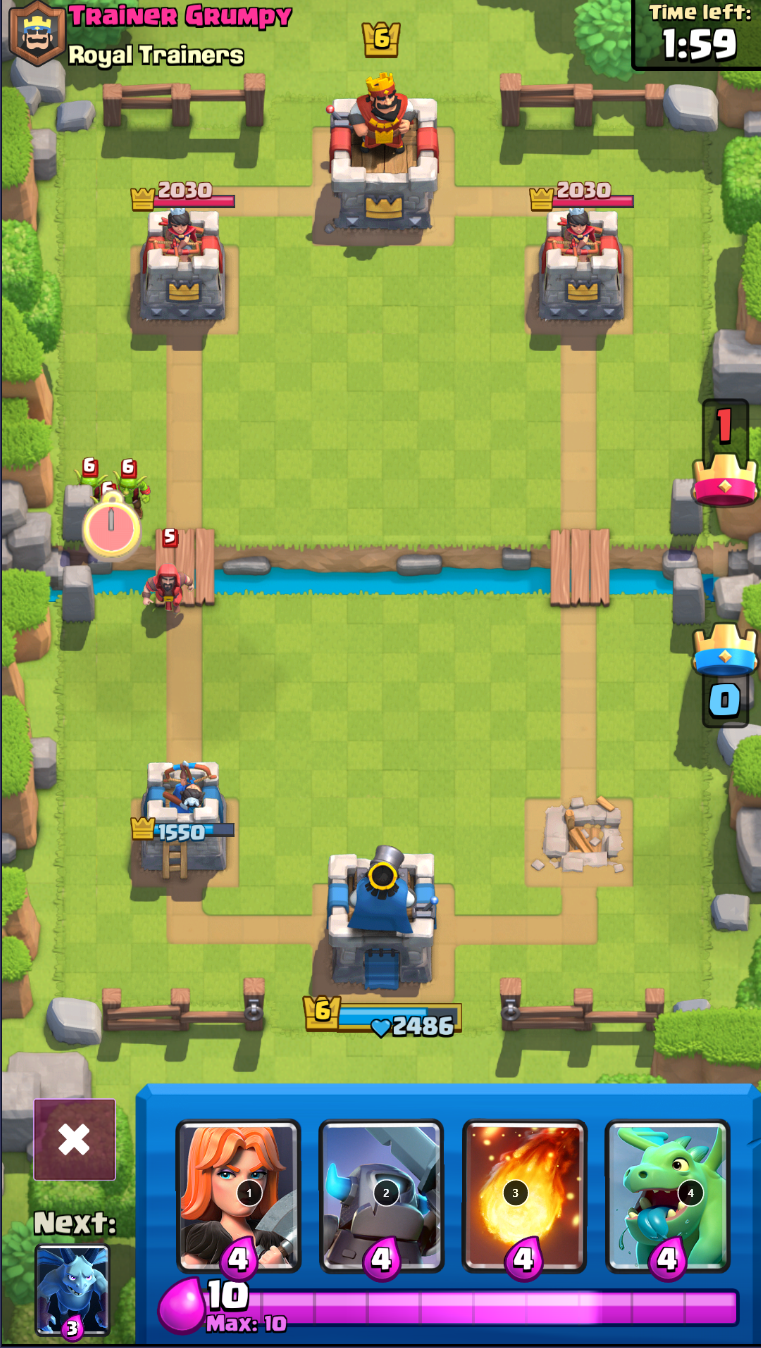
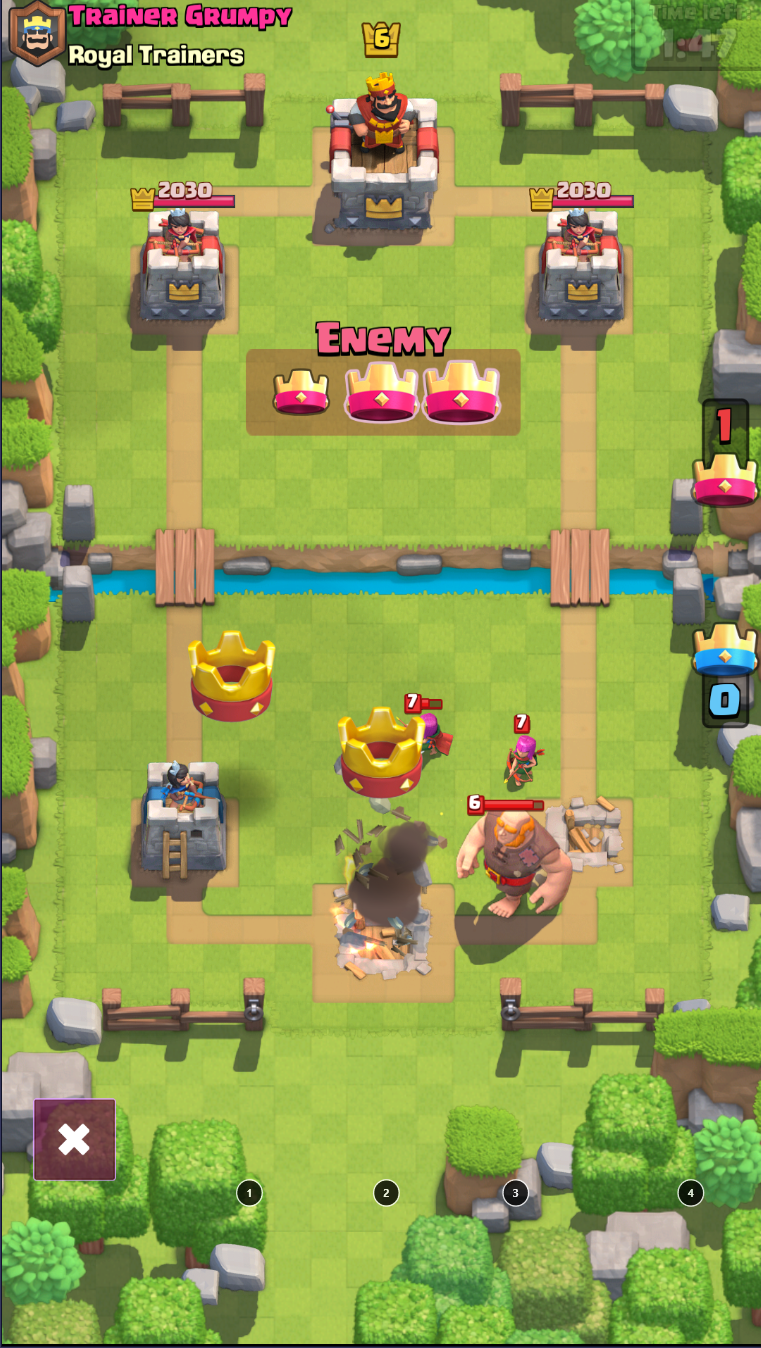
:microscope: Enemy Detection!
Compares a screenshot of the empty playfield from when first launched to the current playfield (cropped by an offset to avoid unwanted ui elements that cause false triggers) and detects the white on screen. White because it only shows up on enemy units, never anywhere else (like 90% of the time lol)

diff --git a/main.py b/main.py
@@ -10,6 +10,9 @@ from datetime import datetime
 import re
 import time
 import json
+import random
+import numpy as np
+import cv2
 
 # defualts
 elixerStoreValue = 0
@@ -24,7 +27,6 @@ elixerStoreScanRadius = 25
 cardScanRadius = 15
 
 # load our game coordinates from screenPoints.json (generated by configure.py)
-# TODO THESE ALL MIGHT NEED ADJUSTED TO LOCALLY FOR CROP
 with open("screenPoints.json") as json_file:
     # throw the json data into an object
     data = json.load(json_file)
@@ -73,6 +75,7 @@ with open("screenPoints.json") as json_file:
 screenSize = (screenBotRight[0] - screenOrigin[0], screenBotRight[1] - screenOrigin[1])
 
 # tell program we dont know any of our deck cards TODO this shit needs to be done better or removed
+# TODO yeah lmao i feel you past self, this is pretty dogshit
 usedFC = True
 usedSC = True
 usedTC = True
@@ -119,16 +122,12 @@ def filterImage(img):
     return img
 
 
-# TODO might need to put num filter back idk 4 is fucky  -c tessedit_char_whitelist=1234567890
-
-
 def tessParse(im):
     # parse our text and
     detectedText = tess.image_to_string(im, config="--psm 13")
     # 4 is commonly mistaken for Q in the clash royale font, correct for this
     if "q" in detectedText:
         detectedText = "4"
-    # clean detected text for any letters wrongly recognised TODO remove this if i enable the character whitelsit
     # print("detected text:", detectedText)
     detectedText = re.sub(
         "[^0-9]", "", detectedText
@@ -136,9 +135,6 @@ def tessParse(im):
 
     # return detected text corrected for recognition errors
     return detectedText
-
-
-# TODO REMOVE left, top, right, bottom
 
 
 def parseStaticValues(
@@ -154,11 +150,6 @@ def parseStaticValues(
 ):
 
     parseValuesElapsedTime = datetime.now()
-
-    # TODO TEST FILTERING ONE TIME FOR EFFICIENCY
-
-    # with Image.open("images/playfield.png") as im:  # TODO THIS NEEDS TO GO
-    # use currently grabbed im for evaluation
 
     # TODO hard code this dont run computations every frame
     elixerStoreImg = im.crop(
@@ -193,7 +184,6 @@ def parseStaticValues(
             )
         )
         firstCardPriceImg = filterImage(firstCardPriceImg)
-        firstCardPriceImg.show()
         # firstCardPriceImg.show()
         tmp = tessParse(firstCardPriceImg)
         if tmp != "":
@@ -212,7 +202,6 @@ def parseStaticValues(
             )
         )
         secondCardPriceImg = filterImage(secondCardPriceImg)
-        secondCardPriceImg.show()
         # secondCardPriceImg.show()
         tmp = tessParse(secondCardPriceImg)
         if tmp != "":
@@ -231,7 +220,6 @@ def parseStaticValues(
             )
         )
         thirdCardPriceImg = filterImage(thirdCardPriceImg)
-        thirdCardPriceImg.show()
         # thirdCardPriceImg.show()
         tmp = tessParse(thirdCardPriceImg)
         if tmp != "":
@@ -250,8 +238,6 @@ def parseStaticValues(
             )
         )
         fourthCardPriceImg = filterImage(fourthCardPriceImg)
-        fourthCardPriceImg.show()
-        exit()
         # fourthCardPriceImg.show()
         tmp = tessParse(fourthCardPriceImg)
         if tmp != "":
@@ -260,6 +246,45 @@ def parseStaticValues(
         # usedFourthCardSinceLastCheck = False
 
     print("elapsed static parse time:", datetime.now() - parseValuesElapsedTime)
+
+
+def detectEnemies(playfieldImage, query):
+
+    topBoundsPercent = 0.11  # TODO expose this in the json to configure
+    botBoundsPercent = 0.2  # to transform these points back onto our normal playfield we just need to add these bounds back as an offset
+
+    playfieldImage = playfieldImage.crop(
+        (
+            0,
+            screenSize[1] * topBoundsPercent,
+            screenSize[0],
+            screenSize[1] - screenSize[1] * botBoundsPercent,
+        )
+    )
+
+    playfieldImage.save(
+        "images/enemyDetect.png"
+    )  # TODO convert to workable for PIL instead of saving
+
+    # Load image
+    im = cv2.imread("images/enemyDetect.png")
+
+    # Define some colours for readability - these are in OpenCV **BGR** order - reverse them for PIL
+    red = [236, 52, 52]
+    green = [0, 255, 0]
+    blue = [255, 0, 0]
+    white = [255, 255, 255]
+    black = [0, 0, 0]
+
+    # Make all red pixels white AND at same time everything else black
+    im = np.where(np.all(im == white, axis=-1, keepdims=True), white, black)
+    if query == "reference":
+        cv2.imwrite("images/enemyDetectRef.png", im)
+        return im
+    else:
+        cv2.imwrite(
+            "images/enemyDetect.png", cv2.absdiff(refIm, im)
+        )  # diff between two images
 
 
 # card location possibilities:
@@ -324,28 +349,47 @@ def placeCheapestCard():
         int(fourthCardCost),
     ]
     # get index of smallest item in list
-    cardNumber = (
-        possibleCards.index(min(possibleCards)) + 1
-    )  # add one because lists start at 0
+    if min(possibleCards) != 0:
+        cardNumber = (
+            possibleCards.index(min(possibleCards)) + 1
+        )  # add one because lists start at 0
 
-    placeCard("leftAboveTower", cardNumber)
+        placeCard("leftAboveTower", cardNumber)
+    else:
+        cardNumber = random.randint(1, 4)
+        placeCard("leftAboveTower", cardNumber)
 
 
 if __name__ == "__main__":
+
+    # TODO REMOVE FIRST BINDABLE FLOW TAKE SCREENSHOT ONE FRAME
+    # idk what i mean by this comment but do this better have a first run function maybe
+    im = screenshot("BlueStacks")
+    # crop by our playfield bounds in relation to the bluestacks window
+    im = im.crop(
+        (
+            cropTL[0],
+            cropTL[1],
+            cropBR[0],
+            cropBR[1],
+        )
+    )
+    refIm = detectEnemies(im, "reference")
+
     while True:
         # get a screenshot of the playfield
 
         im = screenshot("BlueStacks")
+        # crop by our playfield bounds in relation to the bluestacks window
         im = im.crop(
             (
                 cropTL[0],
                 cropTL[1],
                 cropBR[0],
                 cropBR[1],
-            )  # crop by our playfield bounds in relation to the bluestacks window
-        )  # TODO YO RYAN THIS IS WHAT YOU NEED TO DO RN!!!! LOOK AT NOTEBOOK NOTE
-        # im.show()
-        im.save("images/playfield.png")  # TODO remove the save for efficiency
+            )
+        )
+        # im.save("images/playfield.png")  # TODO REMOVE the save for efficiency (this is prob just for visualization)
 
         # parse playfield for elixer store and our four card prices
         parseStaticValues(
@@ -359,9 +403,10 @@ if __name__ == "__main__":
             thirdCardCost,
             fourthCardCost,
         )
-        time.sleep(1)
 
-        placeCheapestCard()
+        detectEnemies(im, "i might be retarded possibly")
+
+        # time.sleep(1)
 
         # emergency abort
         if keyboard.is_pressed("q"):
@@ -384,3 +429,7 @@ if __name__ == "__main__":
 # write more attack patterns for fun
 # start detecting enemies and countering (detect via clusters or something maybe) red filter over playfield
 # TODO width might be fucky for text prob dont hardcode this
+# TODO AI check for red when holding card to know if tower is taken,
+# TODO make it spam emotes would be a funny moment in the video
+# https://stackoverflow.com/questions/60018903/how-to-replace-all-pixels-of-a-certain-rgb-value-with-another-rgb-value-in-openc todo look at this instead of PIL for cleaning elixer text
+# TODO visualization mode for when you want to show off the AI working and another mode to toggle off the visuals for preformance (basically enables/disables image saving)

diff --git a/configure.py b/configure.py
@@ -235,23 +235,9 @@ with open("screenPoints.json", "w") as outfile:
 printHeaderClear()
 print("You have successfully configured the screen points!")
 
+# add getting reference pic here
 
 # points saved for testing purposes:
-# {
-#     "screenOrigin": [2471, 42],
-#     "elixerTextCoords": [2658, 1121],
-#     "card1textCoords": [2666, 1093],
-#     "card2textCoords": [2784, 1092],
-#     "card3textCoords": [2903, 1092],
-#     "card4textCoords": [3021, 1094],
-#     "card1position": [2671, 1035],
-#     "card2position": [2793, 1027],
-#     "card3position": [2915, 1035],
-#     "card4position": [3018, 1039],
-#     "aboveRightTower": [2944, 620],
-#     "aboveLeftTower": [2617, 628],
-#     "leftPushed": [2628, 416],
-#     "rightPushed": [2948, 424]
-# }
+# {"screenOrigin": [2678, 44], "screenBotRight": [3439, 1392], "elixerTextCoords": [2900, 1347], "card1textCoords": [2912, 1307], "card2textCoords": [3054, 1307], "card3textCoords": [3197, 1306], "card4textCoords": [3339, 1306], "card1position": [2910, 1208], "card2position": [3053, 1198], "card3position": [3180, 1200], "card4position": [3317, 1204], "aboveRightTower": [3254, 795], "aboveLeftTower": [2851, 774], "leftPushed": [2851, 515], "rightPushed": [3253, 517]}
 
 # TODO maybe screenshot show user and ask if it looks good?
